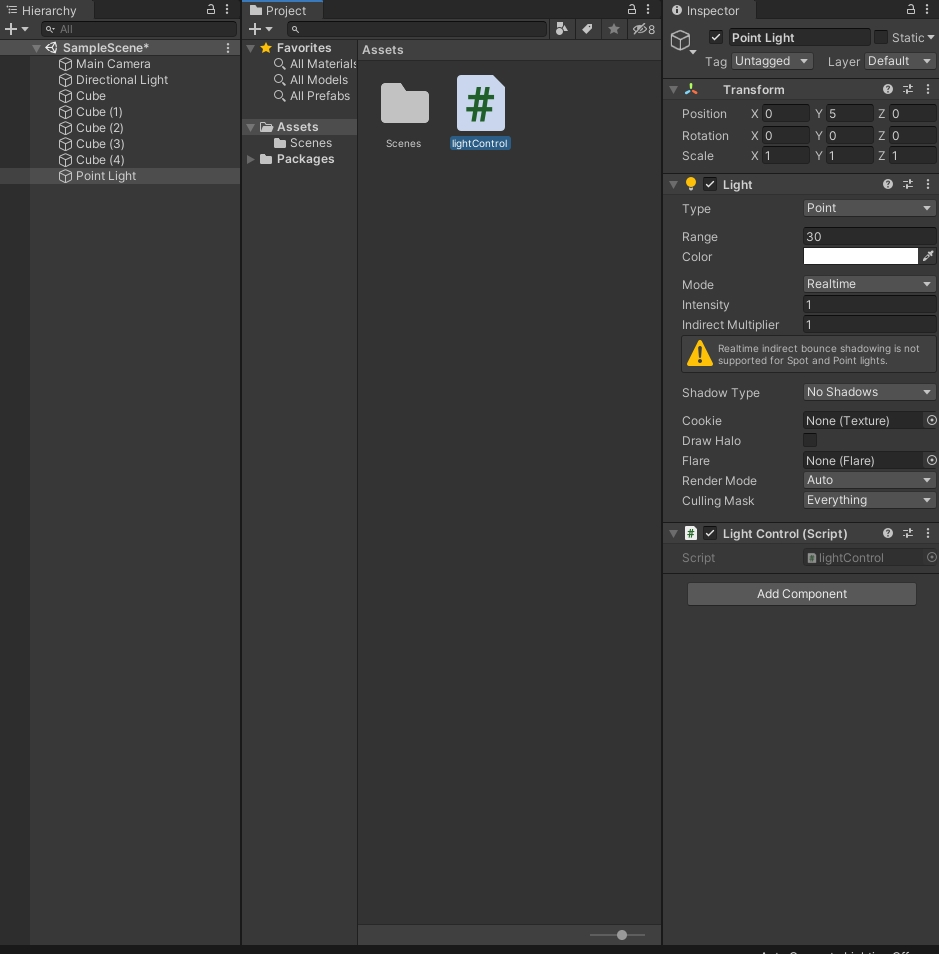
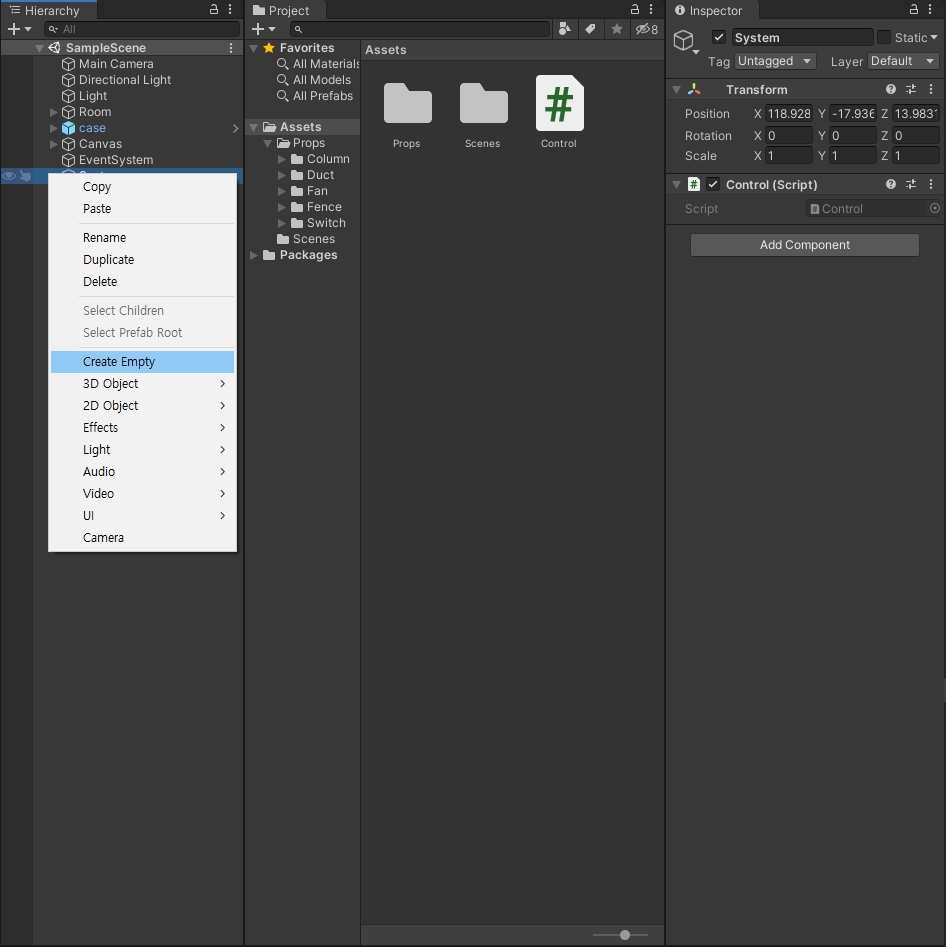
LightRoom 수정

diff --git a/Chapter09_Unity-mbed 연동 프로그램/불켜고끄는프로그램/README.md b/Chapter09_Unity-mbed 연동 프로그램/불켜고끄는프로그램/README.md
@@ -4,6 +4,10 @@
 
 !(https://drive.google.com/drive/folders/13JNyFivjLItN2A8ewmxb8JqruMPzrCyh)
 
+-선풍기 애셋
+
+!(https://assetstore.unity.com/packages/3d/underground-industrial-models-69927)
+
 # 제작과정
 
 ![1](https://github.com/HongyeongJu/MbedCode/blob/master/Chapter09_Unity-mbed%20%EC%97%B0%EB%8F%99%20%ED%94%84%EB%A1%9C%EA%B7%B8%EB%9E%A8/%EB%B6%88%EC%BC%9C%EA%B3%A0%EB%81%84%EB%8A%94%ED%94%84%EB%A1%9C%EA%B7%B8%EB%9E%A8/%EC%82%AC%EC%A7%84/1.jpg)
@@ -28,7 +32,7 @@
 
 ![6](https://github.com/HongyeongJu/MbedCode/blob/master/Chapter09_Unity-mbed%20%EC%97%B0%EB%8F%99%20%ED%94%84%EB%A1%9C%EA%B7%B8%EB%9E%A8/%EB%B6%88%EC%BC%9C%EA%B3%A0%EB%81%84%EB%8A%94%ED%94%84%EB%A1%9C%EA%B7%B8%EB%9E%A8/%EC%82%AC%EC%A7%84/6.jpg)
 
-- Hierachy 창에서 마우스 오른쪽 클릭하여 Light-> Point Light 객체를 생성한다.
+- Hierachy 창에서 마우스 오른쪽 클릭하여 Light-> Point Light 객체를 생성한다. 또한 Point Light 객체의 이름을 Light로 변경한다.
 
 ![7](https://github.com/HongyeongJu/MbedCode/blob/master/Chapter09_Unity-mbed%20%EC%97%B0%EB%8F%99%20%ED%94%84%EB%A1%9C%EA%B7%B8%EB%9E%A8/%EB%B6%88%EC%BC%9C%EA%B3%A0%EB%81%84%EB%8A%94%ED%94%84%EB%A1%9C%EA%B7%B8%EB%9E%A8/%EC%82%AC%EC%A7%84/7.jpg)
 
@@ -36,35 +40,41 @@
 
 ![8](https://github.com/HongyeongJu/MbedCode/blob/master/Chapter09_Unity-mbed%20%EC%97%B0%EB%8F%99%20%ED%94%84%EB%A1%9C%EA%B7%B8%EB%9E%A8/%EB%B6%88%EC%BC%9C%EA%B3%A0%EB%81%84%EB%8A%94%ED%94%84%EB%A1%9C%EA%B7%B8%EB%9E%A8/%EC%82%AC%EC%A7%84/8.jpg)
 
-- Assets 창에서 마우스 오른쪽 버튼을 누르고 Create-> C# script를 눌러서 새로운 스크립트를 생성한다. 이 새로운 스크립트의 이름은 "lightControl"으로 변경한다.
+- Assets 창에서 마우스 오른쪽 버튼을 누르고 Create-> C# script를 눌러서 새로운 스크립트를 생성한다. 이 새로운 스크립트의 이름은 "Control"으로 변경한다.
 
 ![9](https://github.com/HongyeongJu/MbedCode/blob/master/Chapter09_Unity-mbed%20%EC%97%B0%EB%8F%99%20%ED%94%84%EB%A1%9C%EA%B7%B8%EB%9E%A8/%EB%B6%88%EC%BC%9C%EA%B3%A0%EB%81%84%EB%8A%94%ED%94%84%EB%A1%9C%EA%B7%B8%EB%9E%A8/%EC%82%AC%EC%A7%84/9.jpg)
 
 - 새로 생성된 스크립트를 두번 하여 비주얼 스튜디오를 열고 다음의 코드를 복사 붙여넣기한다.
 
-### lightControl.cs
+### Control.cs
 ```cs
-
 using System.Collections;
 using System.Collections.Generic;
 using UnityEngine;
 using System.IO.Ports;
 using System;
 
-public class lightControl : MonoBehaviour
+public class Control : MonoBehaviour
 {
+    GameObject Light;
+    GameObject Fan;
+
     // 시리얼 통신 객체
     SerialPort m_SerialPort = new SerialPort("COM3", 9600, Parity.None, 8, StopBits.One);
+    // 토글 버튼을 눌렀는지 확인하는 스위치 변수
+    bool toggle = false;
 
     // Start is called before the first frame update
     void Start()
     {
+        Light = GameObject.Find("Light");
+        Fan = GameObject.Find("Center");
         // 시리얼 포트 시작
         m_SerialPort.Open();
     }
 
-    // Update is called once per frame
-    void Update()
+	// Update is called once per frame
+	void FixedUpdate()
     {
         // 시리얼 통신을 통해 Mbed로부터 데이터를 받는다.
 		if (m_SerialPort.IsOpen)
@@ -76,23 +86,43 @@ public class lightControl : MonoBehaviour
                 // Mbed로부터 1을 받으면(조도센서가 어두워졌을 때) Light On
                 if(temp[0] == '1')
 				{
-                    GetComponent<Light>().enabled = true;
+                    Light.GetComponent<Light>().enabled = true;
 				}
                 // Mbed로부터 0을 받으면(조도센서가 밝아졌을 때) Light Off
 				else if(temp[0] == '0')
 				{
-                    GetComponent<Light>().enabled = false;
+                    Light.GetComponent<Light>().enabled = false;
 				}
             }
+
+            // 토글 버튼이 체크되어있으면 팬을 회전한다.
+            if (toggle)
+            {
+                Fan.transform.Rotate(new Vector3(80f, 0f, 0f) * Time.deltaTime);
+                m_SerialPort.Write("1");
+            }else
+			{
+                m_SerialPort.Write("2");
+			}
+
         }
+
+
     }
 
-	private void OnDestroy()
+    // 토글 버튼이 눌리면 현재 토글 상태를 받아서 스위치 변수에 저장하는 함수.
+    public void OnValueChanged(bool toggle)
+    {
+        this.toggle = toggle;
+    }
+
+    private void OnDestroy()
 	{
         // 시리얼 포트 종료
         m_SerialPort.Close();
 	}
 }
+
 
 
 ```
@@ -105,36 +135,141 @@ public class lightControl : MonoBehaviour
 
 - Player탭에서 Api Compatibility Level 을 .NET 4.x으로 바꿔준다.
 
-![12](https://github.com/HongyeongJu/MbedCode/blob/master/Chapter09_Unity-mbed%20%EC%97%B0%EB%8F%99%20%ED%94%84%EB%A1%9C%EA%B7%B8%EB%9E%A8/%EB%B6%88%EC%BC%9C%EA%B3%A0%EB%81%84%EB%8A%94%ED%94%84%EB%A1%9C%EA%B7%B8%EB%9E%A8/%EC%82%AC%EC%A7%84/12.jpg)
+![12]()
 
-- lightControl 스크립트를 Point Light 객체의 Inspector 창으로 드래그앤 드롭을 한다.
+- Create -> GameObject를 눌러서 새로운 객체를 만들고 그 객체의 이름을 System 으로 변경한다.
+
+![13]()
+
+- 유니티 상단 메뉴에서 Window-> AssetStore 메뉴를 누르고 Asset Store를 켠다.
+
+![14]()
+
+- 검색에 Underground Industrial Models 라고 입력하고 검색하고, 가장 첫번째 에셋을 선택한다.
+
+![15]()
+
+- 위 에셋을 Import 버튼을 눌러서 Unity로 불러온다.
+
+![16]()
+
+- 에셋의 Import가 완료가 되었으면 Asset 폴더-> Props 폴더 -> Fan 폴더로 들어가고 Fan Prefab을 드래그엔 드롭하여 Hierarchy창으로 옮긴다.
+
+![17]()
+
+- 생성된 Fan 객체를 case라는 이름으로 고치 다음과 같이 Transform 속성의 항목을 수정한다.
+
+![18]()
+
+- Fan 객체 안에 다음과 같이 새로운 GameObject를 만들고 Fan을 GameObject에 종속되게 만든다. 또한 위의 그림과 같이 Transform 변수를 수정한다.
+
+![19]()
+
+- GameObject의 이름 Center로 변경한다.
+
+![20]()
+
+- Hierarchy 창에서 마우스 오른쪽 버튼을 누르고 UI -> Toggle 버튼을 눌러서 Toggle 버튼을 만든다.
+
+![21]()
+
+- Hierarchy 에서 Canvas-> Toggle 을 누르고 다음과 같이 변수를 변경한다.
+
+![22]()
+
+- 토글 버튼아래에 있는 Label을 다음과 같이 변수를 바꾼다.
+
+![23]()
+
+- 토글 버튼 아래에 있는 Checkmark도 다음과 같이 변수를 바꾼다.
+
+![24]()
+
+- System 객체를 클릭하여 Assets 폴더에 있는 Control 스크립트를 드래그앤 드롭을 한다.
+
+![25]()
+
+- Toggle 객체를 클릭하고 Inspector 창에서 Toggle 속성에서 On Value Changed가 있는데, 런타임 밑의 상자에 System 객체를 끌어서 넣는다.
+
+![26]()
+
+- No Function 버튼을 누르고  Control-> OnValueChanged 버튼을 순서대로 누른다.
 
 - Mbed에 다음의 코드를 컴파일하여 플레이버튼을 누른다.
 
 ### MbedUnity1.cpp
 ```c++
 /*
-2020-12-30  UnityMbed 연동 프로그램1
-회로 : DigitalIn 회로
-UnityMbed1.cpp
- */
+2021-01-01
+Unity-mbed 연동프로그램 2
+
+*/
+
 #include "mbed.h"
 
 // 시리얼 통신
-Serial Pc(USBTX, USBRX);
+Serial pc(USBTX, USBRX);
 
-// PullDown 저항 방식을 사용하는 Button
-DigitalIn button(PD_14, PullDown);
+//Ticker 객체 생성
+Ticker myTicker;
 
-int main(){
+// 조도 센서를 A0 (PA_3)에 연결
+AnalogIn myCdS(A0);
 
-    while(1){
-        // 버튼을 누르면 방향 바뀌게하기
-        if(button == true){
-            printf("1");
+// DC 모터의 방향 제어 출력 설정
+DigitalOut In1(PA_5), In2(PA_6);
+
+// DC 모터를 앞으로 이동
+void forward(){
+    In1 = false;
+    In2 = true;
+}
+
+// DC 모터 정지
+void stop(){
+    In1 = false;
+    In2 = false;
+}
+
+//조도값 저장 변수
+float brightness = 0.0f;
+
+void Processing()
+{
+    // Unity로부터 값을 읽어들어서 '1'을 입력 받으면 모터가 움직이고 '2'를 입력받으면 모터가 멈추도록 한다.
+    if(pc.readable()){
+        char ch = pc.getc();
+        if(ch == '1'){
+            forward();
+        }
+        else if(ch == '2'){
+            stop();
         }
     }
+
+    //조도 측정값을 변수에 저장
+    brightness = myCdS.read();
+
+    //어두우면 1을 전송 (Unity에서 1을 받으면 가상환경의 조명이 켜짐)
+    if (brightness < 0.3f)
+    {
+        pc.printf("1");
+    }
+    else //밝으면 0을 전송 (Unity에서 0을 받으면 가상환경의 조명이 꺼짐)
+    {
+        pc.printf("0");
+    }
+
 }
+
+int main()
+{
+    //myTicker에 콜백 함수 등록 (주기 0.01초)
+    myTicker.attach(&Processing, 0.01);
+
+    while (1){    }
+}
+
 
 ```
 
